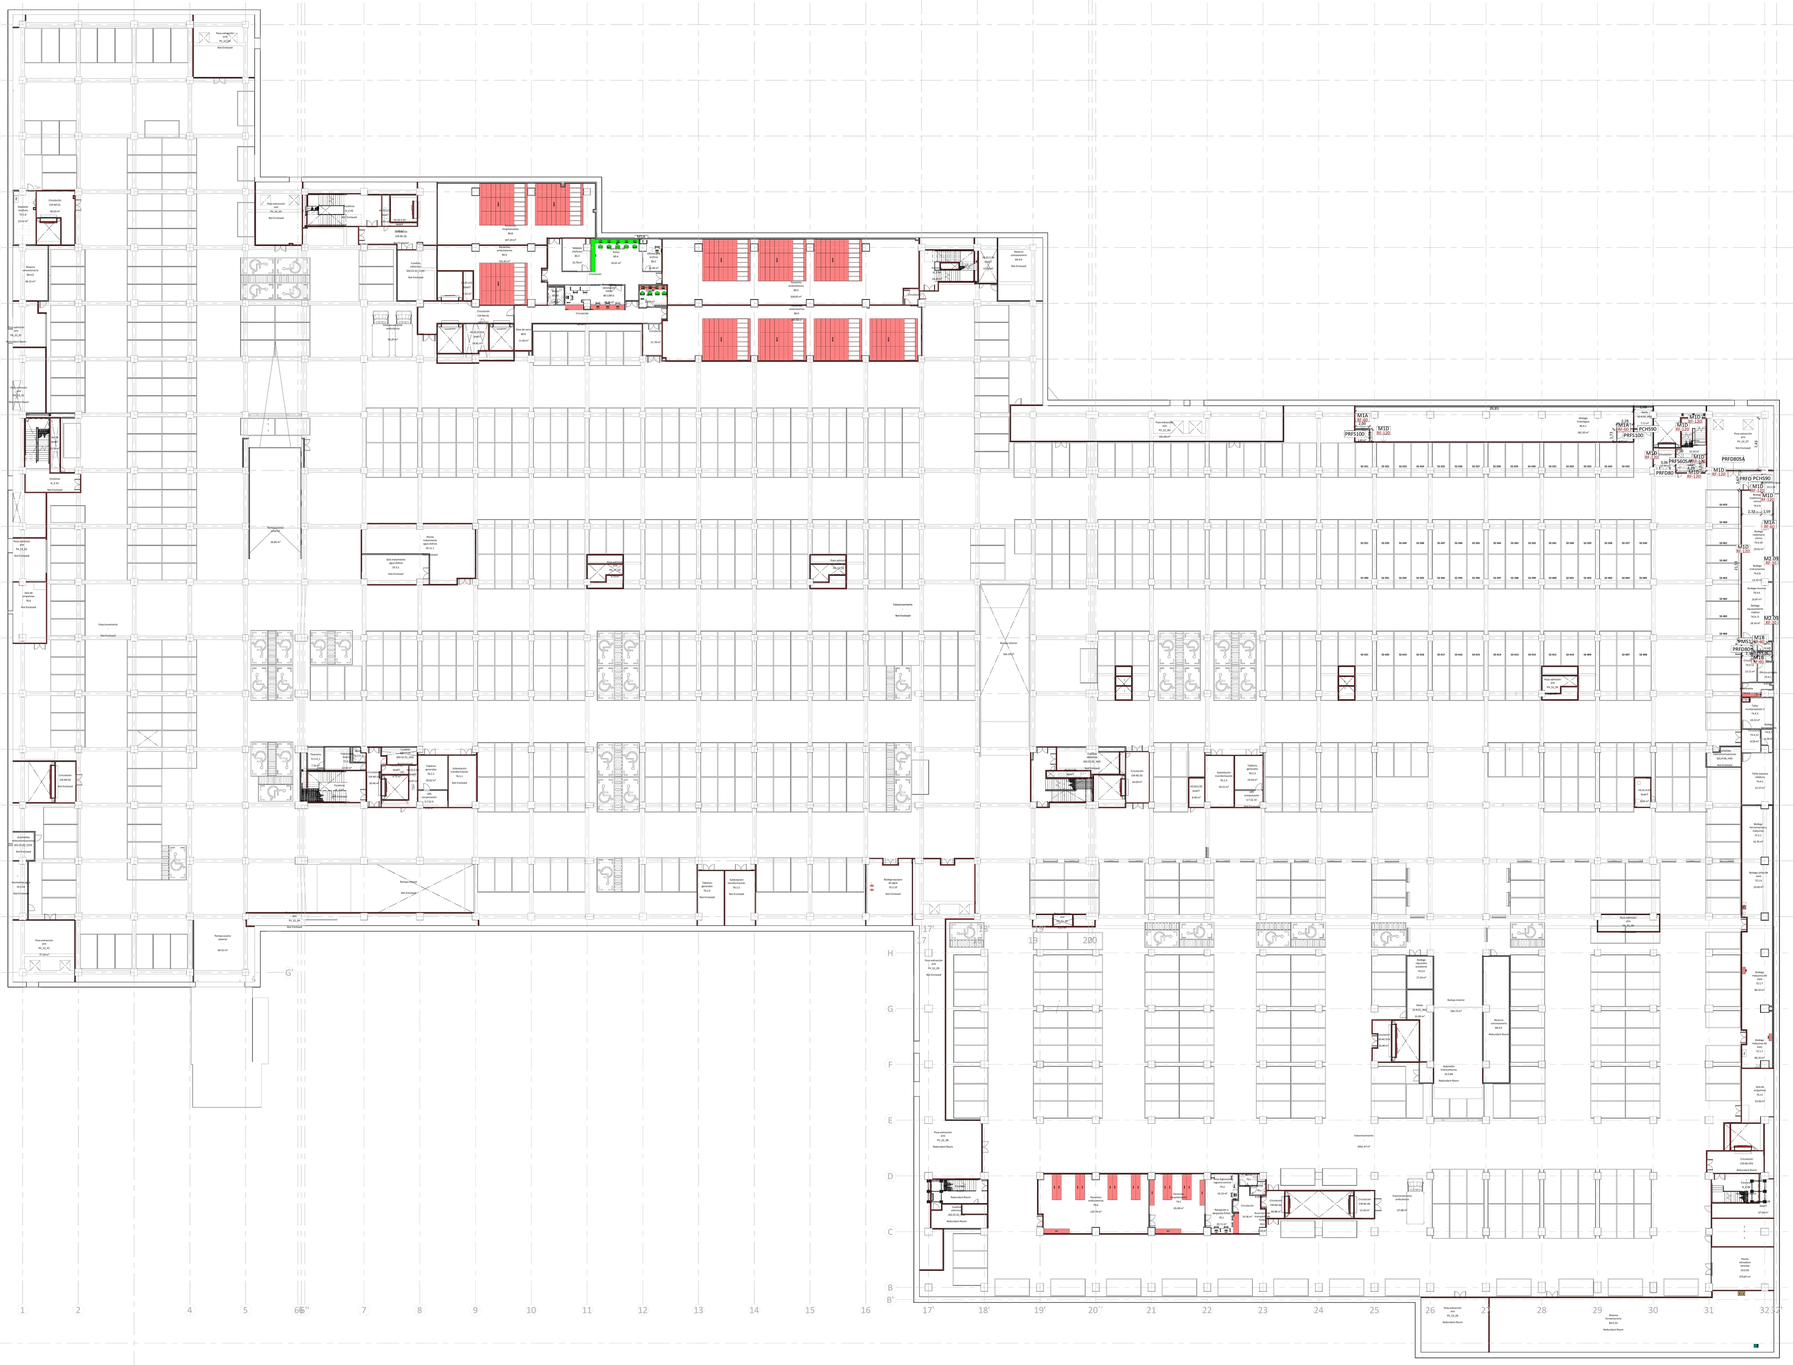
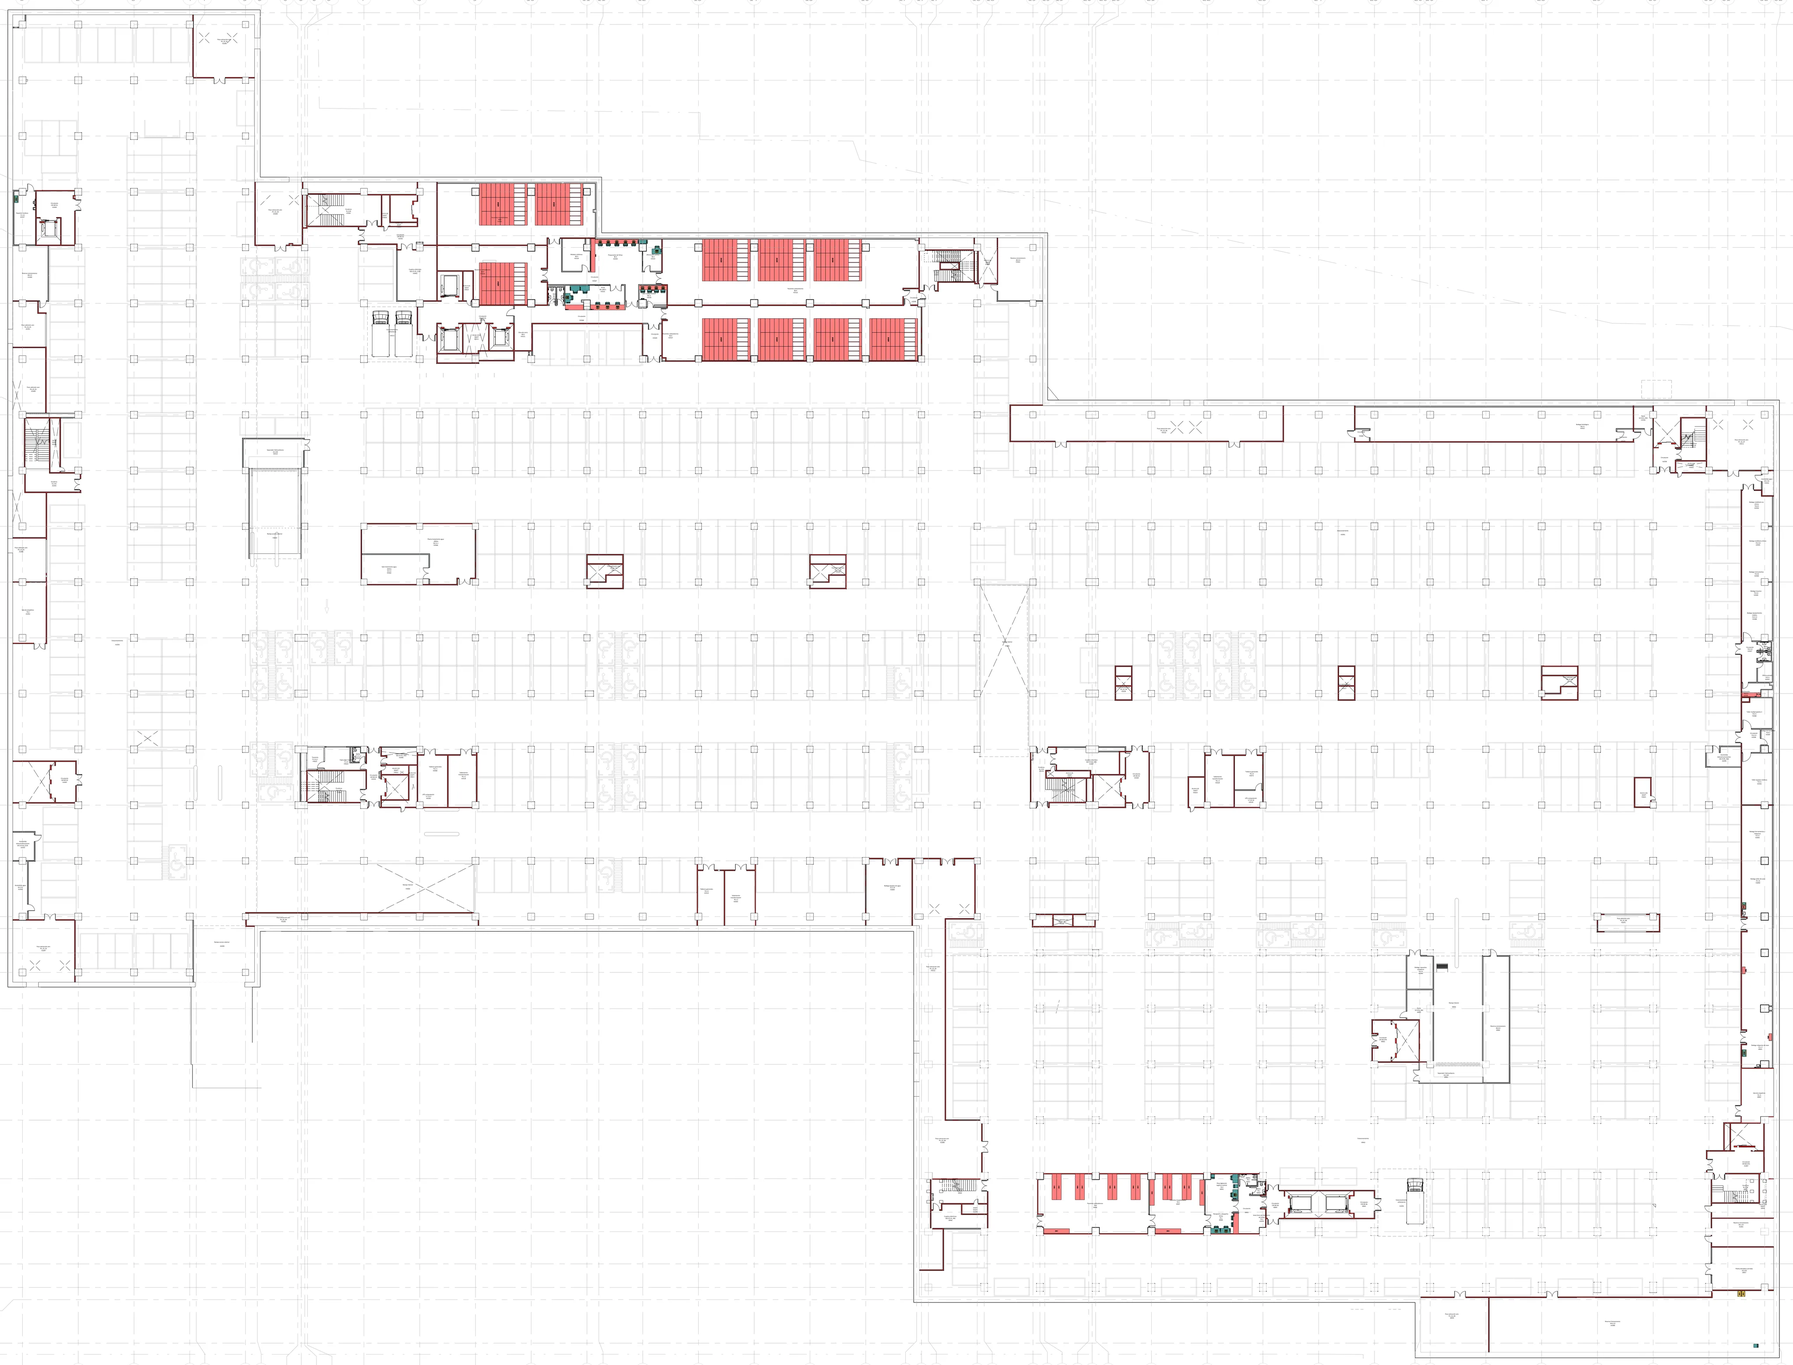
Actualización HUB-PM 2026-10-02

diff --git a/SHARED_DATA/bim_plano.js b/SHARED_DATA/bim_plano.js
@@ -1,0 +1,3 @@
+// SHARED_DATA/bim_plano.js — rótulos nombre · código · BIM de los planos CRA, en px del Atlas.
+// GENERADO por _DEV/build_bim_plano.py — no editar a mano.
+window.BIM_PLANO = {"generado": "2026-10-02", "fuente": {"P-2": "ARQ-PL-GEN-PS2-Ce-G-037 - Coordinación Mobiliario - CRA.pdf"}, "floors": {"P-2": [{"bim": "H3491", "n": "Estacionamiento", "c": "", "x": 12139, "y": 4832, "uso": 0}, {"bim": "H3496", "n": "Cuadros eléctricos S02.CE.01_HDS", "c": "", "x": 3627, "y": 6847, "uso": 1}, {"bim": "H3497", "n": "Cuadros eléctricos S02.CE.02_HDS", "c": "", "x": 9866, "y": 6905, "uso": 1}, {"bim": "H3515", "n": "Estacionamiento ambulancia", "c": "", "x": 3545, "y": 3034, "uso": 0}, {"bim": "H3516", "n": "Pacientes ambulatorios", "c": "80.9", "x": 7191, "y": 2644, "uso": 1}, {"bim": "H3521", "n": "Área de carro", "c": "80.6", "x": 4727, "y": 3041, "uso": 1}, {"bim": "H3531", "n": "Pacientes hospitalizados", "c": "80.8", "x": 4517, "y": 2002, "uso": 1}, {"bim": "H3532", "n": "Recepción y devolución fichas", "c": "80.1/80.5", "x": 5449, "y": 2635, "uso": 1}, {"bim": "H3533", "n": "Oficina jefe archivo", "c": "80.2", "x": 5902, "y": 2339, "uso": 1}, {"bim": "H3539", "n": "Módulo citófonos", "c": "80.3", "x": 5212, "y": 2336, "uso": 1}, {"bim": "H3535", "n": "Baños", "c": "80.10", "x": 5016, "y": 2694, "uso": 1}, {"bim": "H3536", "n": "Sala trabajo médico", "c": "80.11", "x": 5868, "y": 2689, "uso": 1}, {"bim": "H3537", "n": "Pacientes ambulatorios", "c": "80.9", "x": 6062, "y": 3053, "uso": 1}, {"bim": "H3538", "n": "Pacientes ambulatorios", "c": "80.9", "x": 4362, "y": 2474, "uso": 1}, {"bim": "H3552", "n": "Bodega histológica", "c": "46.4.1", "x": 14305, "y": 3872, "uso": 1}, {"bim": "H3561", "n": "Reserva concesionaria", "c": "84.X.0", "x": 9203, "y": 2368, "uso": 1}, {"bim": "H3562", "n": "Sala tratamiento agua diálisis", "c": "19.3.2", "x": 3517, "y": 5178, "uso": 1}, {"bim": "H3566", "n": "Planta tratamiento agua diálisis", "c": "50.11.1", "x": 3939, "y": 4928, "uso": 1}, {"bim": "H3567", "n": "Circulación", "c": "", "x": 5375, "y": 2540, "uso": 0}, {"bim": "H3568", "n": "Circulación", "c": "", "x": 5257, "y": 2895, "uso": 0}, {"bim": "H3569", "n": "Circulación", "c": "", "x": 5920, "y": 3055, "uso": 0}, {"bim": "H3570", "n": "Circulación", "c": "CIR-NH.01", "x": 4363, "y": 2895, "uso": 0}, {"bim": "H3571", "n": "Tableros generales", "c": "76.2.3", "x": 11315, "y": 7011, "uso": 1}, {"bim": "H3577", "n": "Escaleras", "c": "N_E.06", "x": 15309, "y": 4043, "uso": 0}, {"bim": "H3579", "n": "Escaleras", "c": "N_E.04", "x": 8463, "y": 2484, "uso": 0}, {"bim": "H3580", "n": "Escaleras", "c": "N_E.03", "x": 3064, "y": 7162, "uso": 0}, {"bim": "H3581", "n": "Escaleras", "c": "N_E.02", "x": 3151, "y": 1927, "uso": 0}, {"bim": "H3583", "n": "Subestación transformación", "c": "76.1.2", "x": 6651, "y": 8149, "uso": 1}, {"bim": "H3584", "n": "Tableros generales", "c": "76.2.1", "x": 3933, "y": 6966, "uso": 1}, {"bim": "H3585", "n": "Bodega insumos", "c": "74.X.6", "x": 15874, "y": 5379, "uso": 1}, {"bim": "H3586", "n": "Taller multipropósito 2", "c": "74.X.5", "x": 15859, "y": 6471, "uso": 1}, {"bim": "H3587", "n": "Bodega herramientas", "c": "74.X.7", "x": 15982, "y": 6639, "uso": 1}, {"bim": "H3588", "n": "Bodega equipamiento médico", "c": "74.X.11", "x": 15861, "y": 5596, "uso": 1}, {"bim": "H3589", "n": "Baños", "c": "74.X.2", "x": 15961, "y": 5880, "uso": 1}, {"bim": "H3590", "n": "Bodega instrumentos", "c": "74.X.8", "x": 15879, "y": 5206, "uso": 1}, {"bim": "H3591", "n": "Oficina privada", "c": "74.X.1", "x": 15977, "y": 6140, "uso": 1}, {"bim": "H3592", "n": "Taller equipos médicos", "c": "74.4.1", "x": 15904, "y": 7085, "uso": 1}, {"bim": "H3593", "n": "Kitchenette", "c": "74.X.3", "x": 15781, "y": 6286, "uso": 1}, {"bim": "H3594", "n": "Bodega mobiliario no clínico", "c": "74.X.9", "x": 15879, "y": 4593, "uso": 1}, {"bim": "H3595", "n": "Bodega mobiliario clínico", "c": "74.X.10", "x": 15891, "y": 4926, "uso": 1}, {"bim": "H3596", "n": "Circulación", "c": "74.X.12", "x": 15854, "y": 6663, "uso": 0}, {"bim": "H3597", "n": "Circulación", "c": "74.X.12", "x": 15818, "y": 5886, "uso": 0}, {"bim": "H3598", "n": "Circulación", "c": "", "x": 8261, "y": 2726, "uso": 0}, {"bim": "H3599", "n": "Preparación de fichas", "c": "80.4", "x": 5563, "y": 2340, "uso": 1}, {"bim": "H3600", "n": "Bodega equipos de agua", "c": "15.2.19", "x": 8067, "y": 8041, "uso": 1}, {"bim": "H3601", "n": "Rampa interior", "c": "", "x": 9106, "y": 5838, "uso": 0}, {"bim": "H3602", "n": "Rampa interior", "c": "", "x": 3687, "y": 8033, "uso": 0}, {"bim": "H3603", "n": "Rampa acceso exterior", "c": "", "x": 2484, "y": 4862, "uso": 0}, {"bim": "H3605", "n": "Circulación", "c": "", "x": 14674, "y": 3988, "uso": 0}, {"bim": "H3606", "n": "Circulación", "c": "", "x": 12305, "y": 3941, "uso": 0}, {"bim": "H3608", "n": "SHAFT", "c": "HS.01.E.04", "x": 8927, "y": 2389, "uso": 0}, {"bim": "H3611", "n": "SHAFT", "c": "HS.01.E.03", "x": 3727, "y": 7022, "uso": 0}, {"bim": "H3612", "n": "SHAFT", "c": "HS.02.E.03", "x": 3580, "y": 6981, "uso": 0}, {"bim": "H3614", "n": "SHAFT", "c": "HS.01.E.05", "x": 9669, "y": 7023, "uso": 0}, {"bim": "H3616", "n": "SHAFT", "c": "HS.01.E.06", "x": 15289, "y": 4225, "uso": 0}, {"bim": "H3619", "n": "SHAFT", "c": "HS.02.E.02", "x": 3606, "y": 2051, "uso": 0}, {"bim": "H3620", "n": "SHAFT", "c": "HS.01.E.02", "x": 3477, "y": 1966, "uso": 0}, {"bim": "H3621", "n": "SHAFT", "c": "HS.01.H.05", "x": 14860, "y": 7203, "uso": 0}, {"bim": "H3622", "n": "SHAFT", "c": "HS.01.H.01", "x": 4218, "y": 2619, "uso": 0}, {"bim": "H3623", "n": "SHAFT", "c": "HS.03.E.05", "x": 10806, "y": 7163, "uso": 0}, {"bim": "H3624", "n": "Cajas pago manual", "c": "71.2.4", "x": 3129, "y": 6904, "uso": 1}, {"bim": "H3625", "n": "Tesorería", "c": "71.2.4_t", "x": 2847, "y": 6882, "uso": 1}, {"bim": "H3626", "n": "Baños", "c": "71.2.4_b", "x": 3238, "y": 6852, "uso": 1}, {"bim": "H3492", "n": "Cuadros eléctricos S02.CE.01_CCEE", "c": "", "x": 3753, "y": 2471, "uso": 1}, {"bim": "A1032", "n": "Estacionamiento", "c": "", "x": 1062, "y": 5827, "uso": 0}, {"bim": "A1035", "n": "Escaleras", "c": "N_E.01", "x": 490, "y": 4390, "uso": 0}, {"bim": "A1037", "n": "Depósito residuos", "c": "72.1.8", "x": 202, "y": 1962, "uso": 1}, {"bim": "A1040", "n": "Reserva concesionaria", "c": "84.X.0", "x": 270, "y": 2506, "uso": 1}, {"bim": "A1044", "n": "Rampa acceso exterior", "c": "", "x": 2009, "y": 8551, "uso": 0}, {"bim": "A1050", "n": "SHAFT", "c": "AA.08", "x": 491, "y": 4017, "uso": 0}, {"bim": "I0943", "n": "Estacionamiento", "c": "", "x": 12323, "y": 10326, "uso": 0}, {"bim": "I0944", "n": "Cuadros eléctricos S02.CE.01_ING", "c": "", "x": 8592, "y": 11030, "uso": 1}, {"bim": "I0945", "n": "Bodega máquinas de aseo", "c": "72.1.7", "x": 15912, "y": 9483, "uso": 1}, {"bim": "H3494", "n": "Bodega útiles de aseo", "c": "72.1.6", "x": 15891, "y": 7980, "uso": 1}, {"bim": "H3495", "n": "Bodega herramientas y máquinas", "c": "72.2.1", "x": 15887, "y": 7570, "uso": 1}, {"bim": "I0946", "n": "Pacientes ambulatorios", "c": "79.6", "x": 9900, "y": 10913, "uso": 1}, {"bim": "I0947", "n": "Pacientes hospitalizados", "c": "79.5", "x": 10649, "y": 10883, "uso": 1}, {"bim": "I0948", "n": "Recepción y despacho fichas", "c": "79.1", "x": 11036, "y": 11027, "uso": 1}, {"bim": "I0949", "n": "Escaleras", "c": "N_E.07", "x": 8678, "y": 10783, "uso": 0}, {"bim": "I0950", "n": "Escaleras", "c": "N_E.08", "x": 15779, "y": 10750, "uso": 0}, {"bim": "I0951", "n": "Circulación", "c": "", "x": 11270, "y": 10959, "uso": 0}, {"bim": "I0952", "n": "Área digitación registro-control", "c": "79.2", "x": 11044, "y": 10749, "uso": 1}, {"bim": "I0953", "n": "Baños", "c": "79.x", "x": 11283, "y": 10680, "uso": 1}, {"bim": "I0954", "n": "Baños", "c": "79.x", "x": 11377, "y": 10781, "uso": 1}, {"bim": "I0955", "n": "Racks S2.R.01_ING", "c": "", "x": 12827, "y": 9148, "uso": 1}, {"bim": "I0956", "n": "Rampa interior", "c": "", "x": 13143, "y": 9101, "uso": 0}, {"bim": "I0957", "n": "Planta elevadora servidas", "c": "10.2.65", "x": 15767, "y": 11502, "uso": 1}, {"bim": "I0958", "n": "SHAFT", "c": "ING.01.E.08", "x": 15935, "y": 10921, "uso": 0}, {"bim": "A1046", "n": "Pozo extracción aire", "c": "PV_S2_02", "x": 2029, "y": 393, "uso": 0}, {"bim": "H3509", "n": "Pozo extracción aire", "c": "PV_S2_03", "x": 2489, "y": 1933, "uso": 0}, {"bim": "H3510", "n": "Pozo extracción aire", "c": "PV_S2_06", "x": 10521, "y": 3910, "uso": 0}, {"bim": "H3511", "n": "Pozo extracción aire", "c": "PV_S2_07", "x": 15744, "y": 4012, "uso": 0}, {"bim": "I0959", "n": "Pozo extracción aire", "c": "PV_S2_09", "x": 13126, "y": 11913, "uso": 0}, {"bim": "H3512", "n": "Pozo extracción aire", "c": "PV_S2_05", "x": 8435, "y": 8772, "uso": 0}, {"bim": "A1047", "n": "Pozo extracción aire", "c": "PV_S2_01", "x": 395, "y": 8591, "uso": 0}, {"bim": "I0960", "n": "Reserva concesionaria", "c": "84.X.0", "x": 13542, "y": 9311, "uso": 1}, {"bim": "I0961", "n": "Separador hidrocarburos", "c": "10.2.84", "x": 13073, "y": 9736, "uso": 1}, {"bim": "H3514", "n": "Separador hidrocarburos", "c": "10.2.82", "x": 2490, "y": 4103, "uso": 1}, {"bim": "H3518", "n": "Subestación transformación", "c": "76.1.1", "x": 4191, "y": 7038, "uso": 1}, {"bim": "H3519", "n": "Tableros generales", "c": "76.2.2", "x": 6386, "y": 8072, "uso": 1}, {"bim": "H3520", "n": "Subestación transformación", "c": "76.1.3", "x": 11006, "y": 7075, "uso": 1}, {"bim": "H3529", "n": "UPS computación", "c": "S.T.S2.10", "x": 11309, "y": 7251, "uso": 1}, {"bim": "H3530", "n": "UPS computación", "c": "S.T.S2.9", "x": 3873, "y": 7216, "uso": 1}, {"bim": "H3523", "n": "Pozo admisión aire", "c": "PA_S2_02", "x": 5548, "y": 5153, "uso": 0}, {"bim": "H3524", "n": "Pozo admisión aire", "c": "PA_S2_03", "x": 7575, "y": 5169, "uso": 0}, {"bim": "H3534", "n": "Pozo admisión aire", "c": "PA_S2_04", "x": 10158, "y": 6249, "uso": 0}, {"bim": "H3517", "n": "Pozo admisión aire", "c": "PA_S2_05", "x": 12151, "y": 6222, "uso": 0}, {"bim": "H3542", "n": "Pozo admisión aire", "c": "PA_S2_06", "x": 14188, "y": 6158, "uso": 0}, {"bim": "H3541", "n": "Pozo admisión aire", "c": "PA_S2_08", "x": 14676, "y": 8338, "uso": 0}, {"bim": "H3540", "n": "Pozo admisión aire", "c": "PA_S2_07", "x": 9599, "y": 8348, "uso": 0}, {"bim": "A1051", "n": "Pozo admisión aire", "c": "PA_S2_01", "x": 253, "y": 2975, "uso": 0}, {"bim": "A1052", "n": "Sala de empalmes", "c": "76.6", "x": 253, "y": 5549, "uso": 1}, {"bim": "A1053", "n": "Acometida telecomunicaciones S01.CE.02_CCEE", "c": "", "x": 207, "y": 7660, "uso": 1}, {"bim": "A1054", "n": "Acometida agua", "c": "10.2.53", "x": 184, "y": 8038, "uso": 1}, {"bim": "I0962", "n": "Sala de empalmes", "c": "76.11", "x": 15903, "y": 9916, "uso": 1}, {"bim": "H3543", "n": "Acometida agua", "c": "10.2.54", "x": 15971, "y": 4365, "uso": 1}, {"bim": "H3546", "n": "Pozo extracción aire", "c": "PV_S2_04", "x": 2562, "y": 8329, "uso": 0}, {"bim": "I0963", "n": "Circulación", "c": "CIR-NE.07A", "x": 12502, "y": 9414, "uso": 0}, {"bim": "I0964", "n": "Circulación", "c": "CIR-NE.06", "x": 11528, "y": 10913, "uso": 0}, {"bim": "I0965", "n": "Circulación", "c": "CIR-NE.06", "x": 12330, "y": 10902, "uso": 0}, {"bim": "A1063", "n": "Circulación", "c": "CIR-NP.02", "x": 585, "y": 7070, "uso": 0}, {"bim": "A1064", "n": "Circulación", "c": "CIR-NP.01", "x": 493, "y": 1873, "uso": 0}, {"bim": "H3549", "n": "Circulación", "c": "CIR-NE.05", "x": 10273, "y": 7031, "uso": 0}, {"bim": "H3550", "n": "Racks S2.R.01_HDS", "c": "", "x": 14854, "y": 3797, "uso": 1}, {"bim": "H3551", "n": "SHAFT", "c": "HS.01.H.01A", "x": 4307, "y": 3066, "uso": 0}, {"bim": "H3554", "n": "Circulación", "c": "CIR-NE.03", "x": 3377, "y": 7042, "uso": 0}, {"bim": "H3556", "n": "Circulación", "c": "CIR-NE.02", "x": 3620, "y": 2157, "uso": 0}, {"bim": "A1055", "n": "Estacionamiento ambulancia", "c": "", "x": 12670, "y": 10901, "uso": 0}, {"bim": "A1056", "n": "Acometida telecomunicaciones S01.R.09_HDS", "c": "", "x": 15586, "y": 6878, "uso": 1}, {"bim": "A1058", "n": "Circulación", "c": "", "x": 15048, "y": 4171, "uso": 0}, {"bim": "A1059", "n": "Area Carro de transporte de fichas", "c": "79.3", "x": 11405, "y": 11038, "uso": 1}, {"bim": "A1060", "n": "Bodega repuestos aisladores", "c": "74.2.4", "x": 12843, "y": 8798, "uso": 1}, {"bim": "A1061", "n": "Reserva concesionaria", "c": "84.x.23", "x": 15740, "y": 11087, "uso": 1}, {"bim": "A1065", "n": "Pozo admisión aire", "c": "PA_S2_01", "x": 192, "y": 4986, "uso": 0}, {"bim": "A1066", "n": "Pozo extracción aire", "c": "PV_S2_08", "x": 8519, "y": 10326, "uso": 0}, {"bim": "A1067", "n": "Circulación", "c": "CIR-NE.07A", "x": 15785, "y": 10537, "uso": 0}, {"bim": "A1068", "n": "Reserva Concesionaria", "c": "84.X.23", "x": 14579, "y": 11979, "uso": 1}, {"bim": "A1070", "n": "SHAFT SHAFT", "c": "", "x": 8816, "y": 10953, "uso": 0}, {"bim": "H3578", "n": "Escaleras", "c": "N_E.05", "x": 9414, "y": 6970, "uso": 0}, {"bim": "A1049", "n": "Pozo admisión aire", "c": "PA_S3_01", "x": 302, "y": 3537, "uso": 0}]}};

diff --git a/AtlasWeb.html b/AtlasWeb.html
@@ -1478,6 +1478,7 @@ body.view-only #btnBedMode, body.view-only .bedkind-seg, body.view-only .rp-bedb
 <script src="SHARED_DATA/relojes_control.js"></script>
 <script src="SHARED_DATA/correo_estaciones.js"></script>
 <script src="SHARED_DATA/planos_calibracion.js"></script>
+<script src="SHARED_DATA/bim_plano.js"></script>
 <script src="SHARED_DATA/verticales_parches.js"></script>
 <script src="SHARED_DATA/circulacion_red.js"></script>
 <script src="SHARED_DATA/propuestos_plano.js"></script>
@@ -12955,7 +12956,34 @@ function _variosSvPendientes(){
   });
   return out;
 }
+// BIM según el rótulo del plano (SHARED_DATA/bim_plano.js, planos CRA): un recinto
+// dibujado que contiene el rótulo de un BIM que no es el suyo. Sólo rótulos de
+// recintos con uso (no circulaciones, shafts, pozos, escaleras ni rampas).
+function _bimPlanoPendientes(){
+  const B=(window.BIM_PLANO||{}).floors||{}, out=[];
+  Object.entries(B).forEach(([fid,labs])=>{
+    const fl=FLOORS.find(f=>f.id===fid); if(!fl) return;
+    fl.areas.forEach(a=>(a.rooms||[]).forEach(r=>{
+      const sh=rShapes(r); if(!sh.length) return;
+      const dentro=labs.filter(l=>l.uso && sh.some(q=>l.x>=q.x&&l.x<=q.x+q.w&&l.y>=q.y&&l.y<=q.y+q.h)); if(!dentro.length) return;
+      const cur=new Set(((rBim(r.id)||'').toUpperCase().match(/[AHI]\d{4}/g))||[]);
+      if(dentro.some(l=>cur.has(l.bim))) return;                  // ya tiene uno de los BIM rotulados ahí
+      const cod=rCode(r.id), l=dentro.find(x=>x.c&&x.c===cod)||dentro[0];
+      if(nameState.recintosRev['bimplano|'+r.id+'|'+l.bim]) return;
+      out.push({fl,area:a,r,bim:l.bim,actual:[...cur].join(' / ')||'(sin BIM)',nombrePlano:l.n,codigoPlano:l.c});
+    }));
+  });
+  return out;
+}
 const REV_CHECKS={
+  bimplano:{label:'Catastro: BIM según el rótulo del plano',
+    find:_bimPlanoPendientes, approve:true, noDialog:true, flat:true,
+    okTitle:'Reemplazar el BIM del recinto por el que rotula el plano en ese lugar',
+    allLabel:n=>'✓ Tomar el BIM del plano en los '+n,
+    allMsg:n=>'¿Reemplazar el BIM de los '+n+' recintos visibles por el que rotula el plano de fondo en ese lugar?\n\nSi alguno está bien como está, usá 🚫 en esa fila.',
+    apply:p=>{ nameState.bim=nameState.bim||{}; nameState.bim[p.r.id]=p.bim; nameState.recintosRev['bimplano|'+p.r.id+'|'+p.bim]=1; },
+    subText:p=>'hoy '+p.actual+' → el plano rotula '+p.bim+' «'+(p.nombrePlano||'')+'»'+(p.codigoPlano?(' '+p.codigoPlano):'')+' · '+p.fl.label,
+    done:'Cada recinto dibujado tiene el BIM que rotula el plano en su lugar.'},
   bimcod:{label:'Catastro: BIM por código (completar)',
     find:_bimCodigoPendientes, approve:true, noDialog:true, flat:true,
     okTitle:'Escribir este BIM en el recinto (viene del mapa PMA por el código)',
@@ -16737,6 +16765,19 @@ async function runSelfTest(){
       return v1 && v2;
     } finally { S.level=nivel; S.editMode=ed; S.areaId=a0; _stDrag=null; window.removeEventListener('mousemove', _structDragMove); window.removeEventListener('mouseup', _structDragUp);
       _rpFix(false); Object.keys(structuresState).forEach(k=>delete structuresState[k]); Object.assign(structuresState, JSON.parse(snap)); renderSVG(); }
+  });
+  T('Revisión · BIM según el plano: el recinto que contiene el rótulo de otro BIM se propone corregir; ✓ lo reemplaza y sale de la lista', ()=>{
+    const Bp=window.BIM_PLANO, b0=nameState.bim['st_r1'], c0=nameState.codes['st_r1'], rv={...nameState.recintosRev}; _rpFix(true);
+    try{
+      nameState.bim['st_r1']='H9001'; nameState.codes['st_r1']='99.1';
+      window.BIM_PLANO={floors:{[fl.id]:[{bim:'H9002',n:'Prueba',c:'99.1',x:1000,y:1000,uso:1},{bim:'H9003',n:'Circulación',c:'',x:1500,y:1500,uso:0}]}};
+      const P=_bimPlanoPendientes().filter(p=>p.r.id==='st_r1');
+      const propone=P.length===1 && P[0].bim==='H9002' && /H9001/.test(REV_CHECKS.bimplano.subText(P[0]));
+      REV_CHECKS.bimplano.apply(P[0]); const aplica=rBim('st_r1')==='H9002' && !_bimPlanoPendientes().some(p=>p.r.id==='st_r1');
+      return propone && aplica;
+    } finally { window.BIM_PLANO=Bp; if(b0===undefined) delete nameState.bim['st_r1']; else nameState.bim['st_r1']=b0;
+      if(c0===undefined) delete nameState.codes['st_r1']; else nameState.codes['st_r1']=c0;
+      Object.keys(nameState.recintosRev).forEach(k=>{ if(!(k in rv)) delete nameState.recintosRev[k]; }); _rpFix(false); }
   });
   T('🅿 Estacionamientos: importar de Navegación (sólo plazas; el de verticales no las toca), ⎘ replicar -2 → -3 en el mismo lugar físico sin duplicar, 🅿 las oculta', ()=>{
     const snap=JSON.stringify(structuresState), NVprev=window.NAV_VERTICALES, eP=S.estac, f0=S.floorId, l0=S.level, VAprev=_VA;

diff --git a/SHARED_DATA/planos_meta.js b/SHARED_DATA/planos_meta.js
@@ -1,3 +1,3 @@
 // Fechas de actualización de los planos de fondo (por piso). Generado desde
 // las fechas de los archivos en CABIDA_DATA. Se muestra como leyenda en Atlas.
-window.PLANOS_META={"actualizado_mobiliario": "2026-08-03", "actualizado_color": "2026-07-01", "por_piso": {"P-1": "2026-07-21", "P-2": "2026-06-20", "P1": "2026-06-25", "P2": "2026-08-03", "P3": "2026-06-25", "P4": "2026-06-25"}, "color_por_piso": {"P-1": "2026-07-01", "P-3": "2026-07-01", "P1": "2026-07-01", "P2": "2026-08-03", "P3": "2026-07-01", "P4": "2026-07-01", "P5": "2026-07-01"}, "fuente": "Planos HDS-INGER · Coordinación Mobiliario (mobiliario) + Planos a color"};
+window.PLANOS_META={"actualizado_mobiliario": "2026-10-02", "actualizado_color": "2026-07-01", "por_piso": {"P-1": "2026-07-21", "P-2": "2026-10-02", "P1": "2026-06-25", "P2": "2026-08-03", "P3": "2026-06-25", "P4": "2026-06-25"}, "color_por_piso": {"P-1": "2026-07-01", "P-3": "2026-07-01", "P1": "2026-07-01", "P2": "2026-08-03", "P3": "2026-07-01", "P4": "2026-07-01", "P5": "2026-07-01"}, "fuente": "Planos HDS-INGER · Coordinación Mobiliario (mobiliario) + Planos a color", "notas": {"P-2": "Coordinación Mobiliario versión CRA (con BIM por recinto), ploteo 01-07-2026; calzada al marco anterior con _DEV/reemplaza_plano.py"}};
